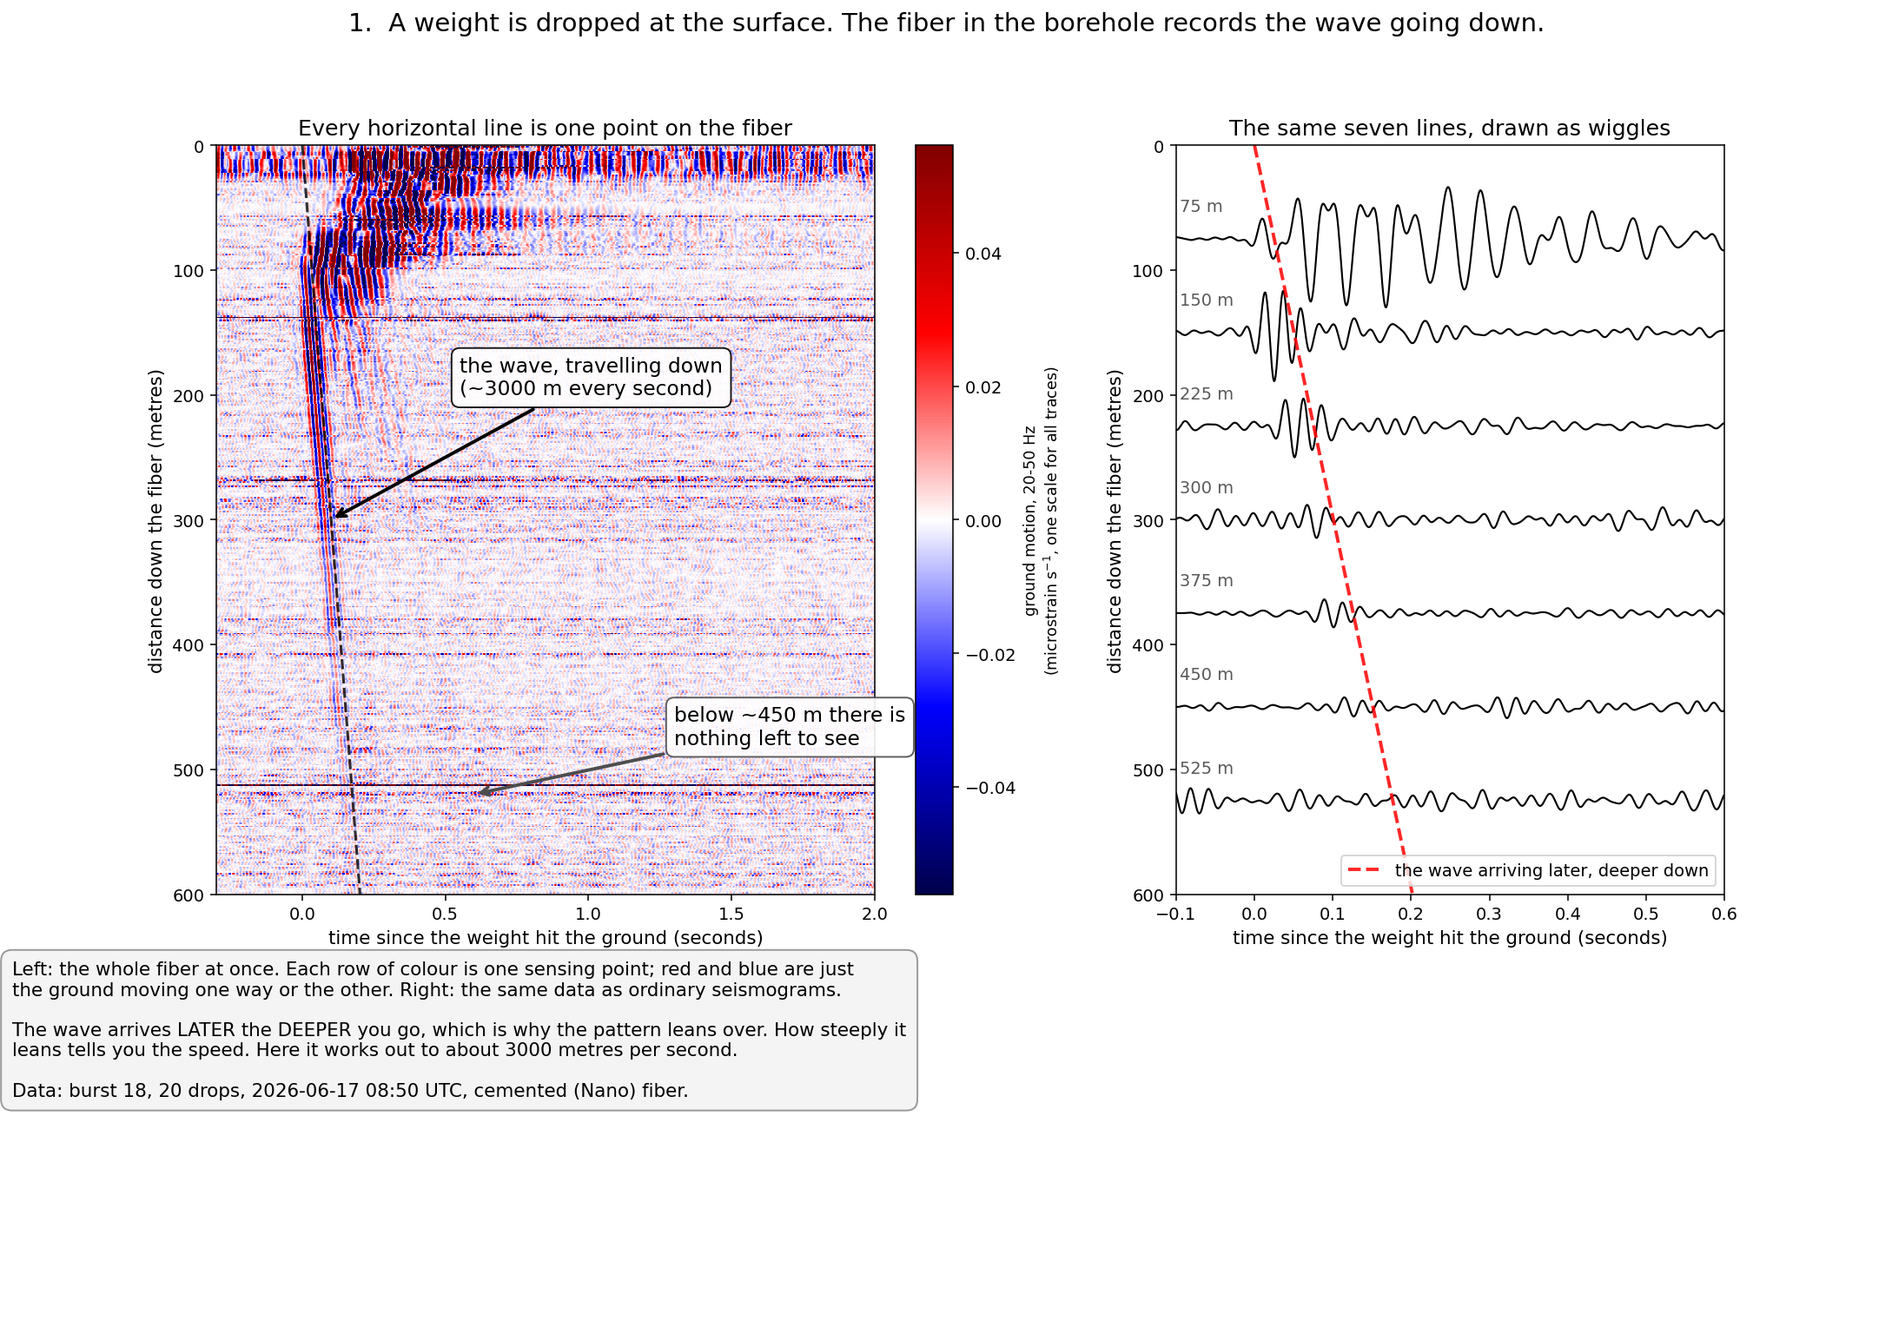
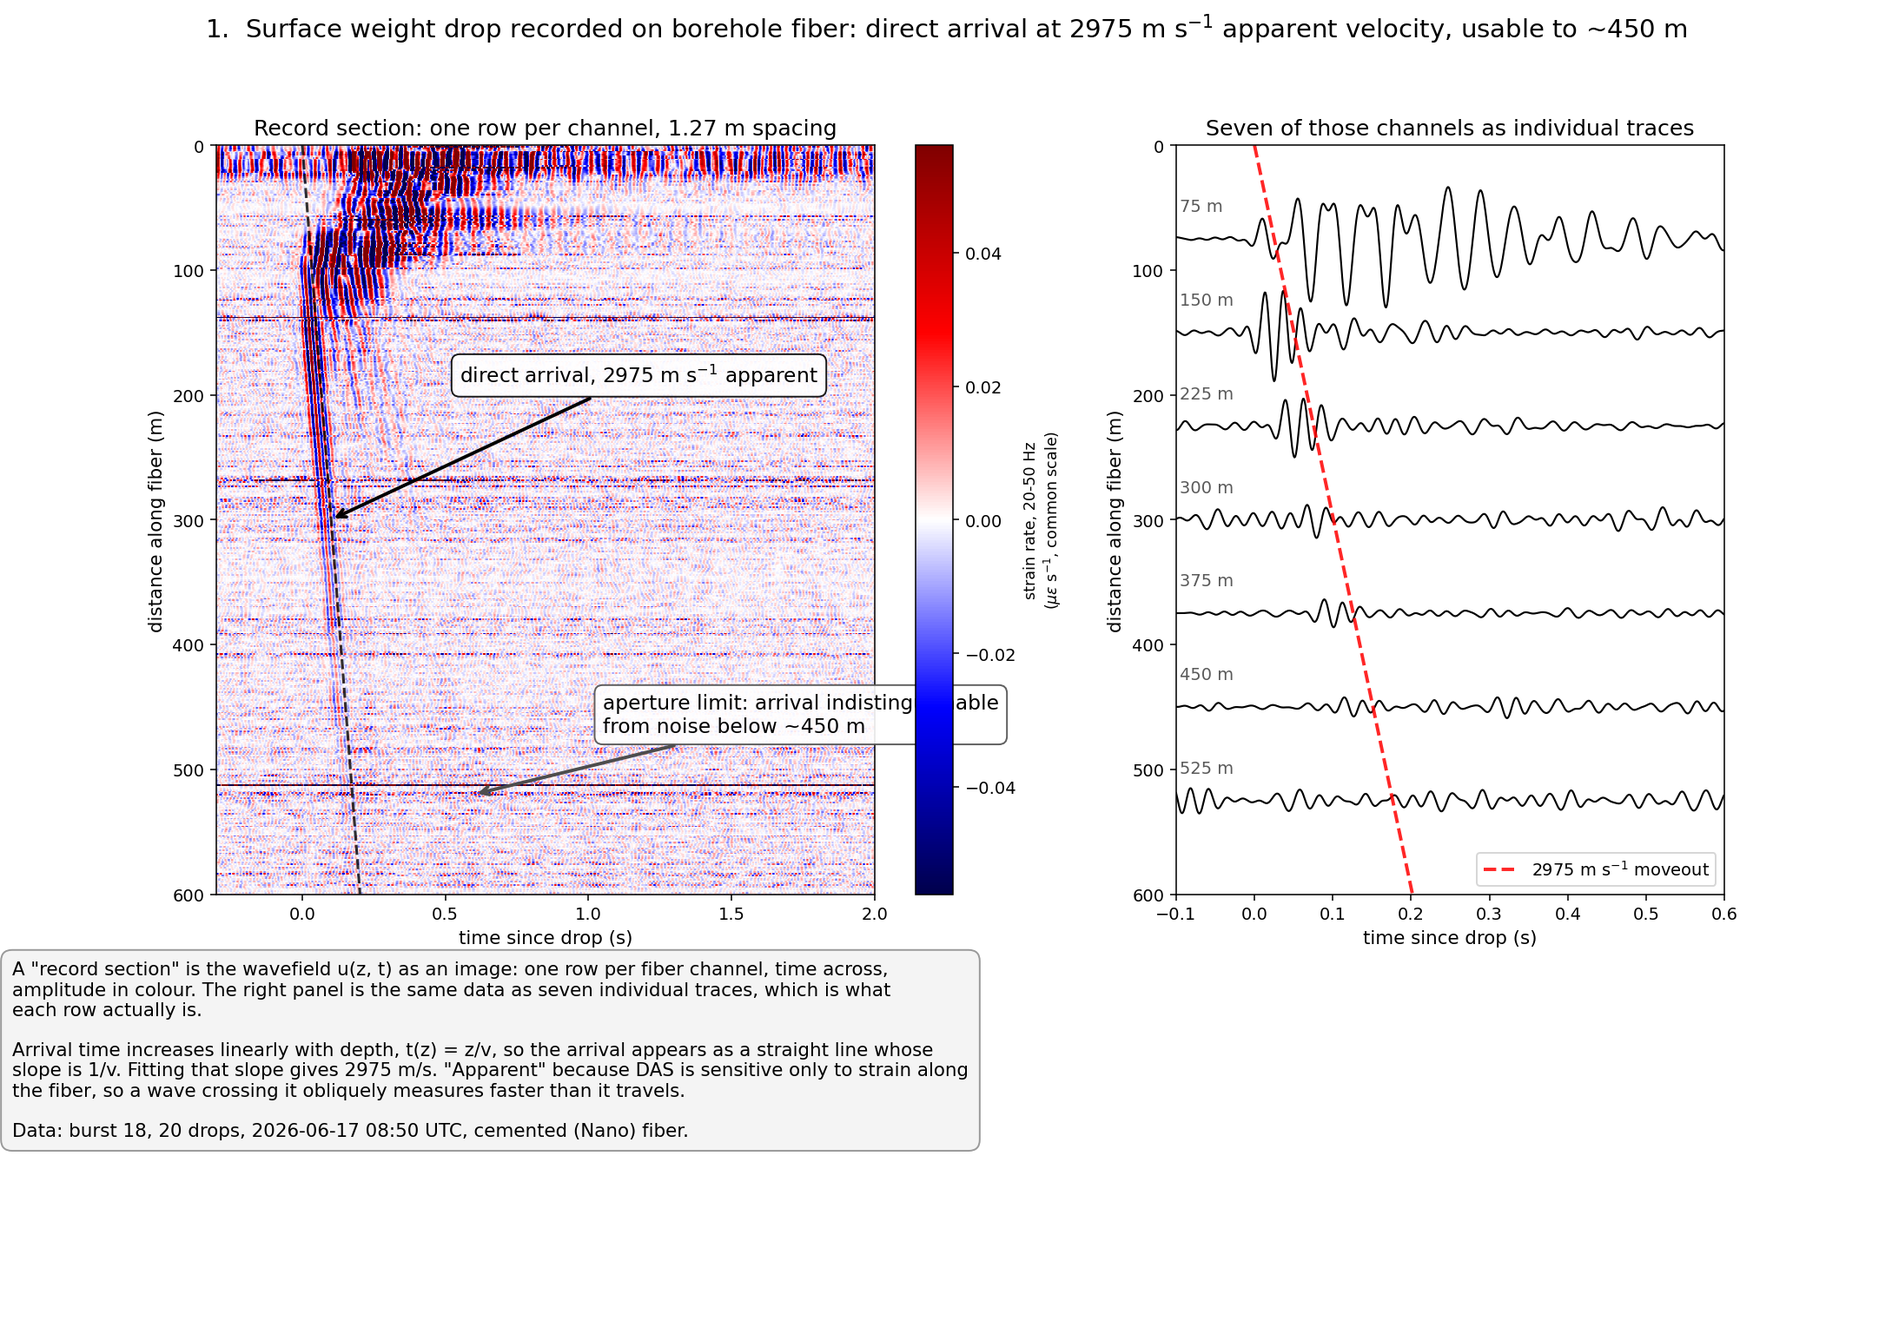
Rewrite the presentation figures at a scientific register
The first pass was pitched far too low - 'THE SIGNAL LIVES HERE', colourbar
ticks reading 'one way / still / other way', captions explaining what a wave
is. The audience is a scientist from another subfield, not a beginner: the
barrier is acquisition vocabulary, not the physics.

Now uses the real terms with a gloss on first use, and every claim carries
its number:

  fig 1  direct arrival at 2975 m/s apparent, with t(z) = z/v stated and
         'apparent' explained as fiber-axial sensitivity
  fig 2  band decomposition; the 1-5 Hz energy identified as zero-moveout
         and pre-t0, hence ambient rather than source-generated
  fig 3  median pairwise CC and peak-amplitude CV computed per depth --
         CC 0.95 / CV 5% at 150 m, 0.73 / 14% at 350 m, 0.18 / 25% at 550 m,
         replacing the previous hand-written verdicts
  fig 4  common-mode removal quantified at 0.89% of section RMS

Axes back to 'time since drop (s)' and 'distance along fiber (m)' with
strain-rate units, instead of the spelled-out versions.

diff --git a/notebooks/awd_clean/plain_look_simple.py b/notebooks/awd_clean/plain_look_simple.py
@@ -1,20 +1,23 @@
 """The same plain looks as `plain_look.py`, redrawn to be readable on first sight.
 
-`plain_look.py` produces diagnostic figures: six panels at a time, dense, written
-for someone who already knows what a record section is. This produces the same
-information as four large figures that explain themselves on the page --
-annotated, one idea each, with the takeaway written in the title rather than left
-to be inferred.
+`plain_look.py` produces diagnostic figures: six panels at a time, dense, with no
+annotation. This produces the same information as four presentation figures --
+one result each, annotated, with the measured quantity in the title.
+
+Register: written for a scientist who is not an active-source seismologist.
+Acquisition terms are used, not avoided, but glossed on first use, and every
+claim carries the number behind it. The point is to remove the jargon barrier,
+not the content.
 
 Nothing is recomputed differently. Same data, same burst, same bands. Only the
 drawing changes. The detailed versions stay where they are.
 
 Design rules used here, since they are the whole point:
-  * one question per figure, answered in the title;
-  * arrows and text on the image pointing at the thing to look at;
-  * every axis and colour bar carries units, or says "normalised" explicitly;
-  * a plain-English caption box on the figure itself, so it survives being
-    pasted into a slide with no surrounding text.
+  * one result per figure, quantified in the title;
+  * annotation on the image identifying the arrival and the aperture limit;
+  * every axis and colour bar in physical units;
+  * a self-contained caption, so the figure survives being pasted into a poster
+    with no surrounding text.
 
 Outputs
 -------
@@ -70,11 +73,11 @@ def section_image(ax, sec, fs, dx, band_label, zmax=None, cmap="seismic"):
     ax.invert_yaxis()
     if zmax:
         ax.set_ylim(zmax, 0)
-    ax.set_xlabel("time since the weight hit the ground (seconds)", fontsize=11)
-    ax.set_ylabel("distance down the fiber (metres)", fontsize=11)
+    ax.set_xlabel("time since drop (s)", fontsize=11)
+    ax.set_ylabel("distance along fiber (m)", fontsize=11)
     cb = plt.colorbar(im, ax=ax)
-    cb.set_label(f"ground motion, {band_label}\n"
-                 r"(microstrain s$^{-1}$, one scale for all traces)", fontsize=9)
+    cb.set_label(f"strain rate, {band_label}\n"
+                 r"($\mu\varepsilon$ s$^{-1}$, common scale)", fontsize=9)
     return im
 
 
@@ -89,16 +92,16 @@ def simple01(sec, fs, tag):
     section_image(ax[0], filt, fs, DX_NANO, "20-50 Hz", zmax=600)
     zz = np.linspace(0, 600, 50)
     ax[0].plot(zz / V_DIRECT, zz, "k--", lw=1.6, alpha=0.8)
-    ax[0].annotate("the wave, travelling down\n(~3000 m every second)",
-                   xy=(0.10, 300), xytext=(0.55, 200), fontsize=12,
+    ax[0].annotate(f"direct arrival, {V_DIRECT:.0f} m s$^{{-1}}$ apparent",
+                   xy=(0.10, 300), xytext=(0.55, 190), fontsize=12,
                    arrowprops=dict(arrowstyle="->", lw=2, color="k"),
                    bbox=dict(boxstyle="round,pad=0.4", fc="white", ec="k", alpha=0.9))
-    ax[0].annotate("below ~450 m there is\nnothing left to see",
-                   xy=(0.6, 520), xytext=(1.3, 480), fontsize=12,
+    ax[0].annotate("aperture limit: arrival indistinguishable\nfrom noise below ~450 m",
+                   xy=(0.6, 520), xytext=(1.05, 470), fontsize=12,
                    arrowprops=dict(arrowstyle="->", lw=2, color="0.3"),
                    bbox=dict(boxstyle="round,pad=0.4", fc="white", ec="0.3", alpha=0.9))
     ax[0].set_xlim(-0.3, 2.0)
-    ax[0].set_title("Every horizontal line is one point on the fiber", fontsize=13)
+    ax[0].set_title("Record section: one row per channel, 1.27 m spacing", fontsize=13)
 
     # the same thing as ordinary wiggly lines, which is what it really is
     depths = (75, 150, 225, 300, 375, 450, 525)
@@ -110,24 +113,28 @@ def simple01(sec, fs, tag):
         ax[1].plot(t[win], scale * tr + zq, "k", lw=1.1)
         ax[1].text(-0.095, zq - 22, f"{zq} m", fontsize=10, color="0.35")
     ax[1].plot(zz / V_DIRECT, zz, "r--", lw=2.0, alpha=0.85,
-               label="the wave arriving later, deeper down")
+               label=f"{V_DIRECT:.0f} m s$^{{-1}}$ moveout")
     ax[1].invert_yaxis()
     ax[1].set_xlim(-0.1, 0.6)
     ax[1].set_ylim(600, 0)
-    ax[1].set_xlabel("time since the weight hit the ground (seconds)", fontsize=11)
-    ax[1].set_ylabel("distance down the fiber (metres)", fontsize=11)
+    ax[1].set_xlabel("time since drop (s)", fontsize=11)
+    ax[1].set_ylabel("distance along fiber (m)", fontsize=11)
     ax[1].legend(fontsize=10, loc="lower right")
-    ax[1].set_title("The same seven lines, drawn as wiggles", fontsize=13)
+    ax[1].set_title("Seven of those channels as individual traces", fontsize=13)
 
-    fig.suptitle("1.  A weight is dropped at the surface. The fiber in the "
-                 "borehole records the wave going down.", fontsize=15)
+    fig.suptitle("1.  Surface weight drop recorded on borehole fiber: direct "
+                 f"arrival at {V_DIRECT:.0f} m s$^{{-1}}$ apparent velocity, "
+                 "usable to ~450 m", fontsize=15)
     caption(fig,
-            "Left: the whole fiber at once. Each row of colour is one sensing point; "
-            "red and blue are just\nthe ground moving one way or the other. Right: the "
-            "same data as ordinary seismograms.\n\n"
-            "The wave arrives LATER the DEEPER you go, which is why the pattern leans "
-            "over. How steeply it\nleans tells you the speed. Here it works out to "
-            "about 3000 metres per second.\n\n"
+            "A \"record section\" is the wavefield u(z, t) as an image: one row per "
+            "fiber channel, time across,\namplitude in colour. The right panel is the "
+            "same data as seven individual traces, which is what\neach row actually "
+            "is.\n\n"
+            "Arrival time increases linearly with depth, t(z) = z/v, so the arrival "
+            "appears as a straight line whose\nslope is 1/v. Fitting that slope gives "
+            f"{V_DIRECT:.0f} m/s. \"Apparent\" because DAS is sensitive only to "
+            "strain along\nthe fiber, so a wave crossing it obliquely measures faster "
+            "than it travels.\n\n"
             f"{tag}")
     fig.savefig(OUT_DIR / "simple01_what_we_record.png", dpi=140,
                 bbox_inches="tight")
@@ -136,10 +143,10 @@ def simple01(sec, fs, tag):
 
 def simple02(sec, fs, tag):
     """Which frequencies carry the signal -- four panels, each with a verdict."""
-    picks = [(None, "no filter at all", "just noise"),
-             ((1.0, 5.0), "very low, 1-5 Hz", "background rumble, not our wave"),
-             ((20.0, 50.0), "middle, 20-50 Hz", "THE SIGNAL LIVES HERE"),
-             ((100.0, 250.0), "high, 100-250 Hz", "nothing")]
+    picks = [(None, "broadband, unfiltered", "noise-dominated"),
+             ((1.0, 5.0), "1-5 Hz", "coherent, but zero moveout: not a body wave"),
+             ((20.0, 50.0), "20-50 Hz", "signal band: clear moveout to ~450 m"),
+             ((100.0, 250.0), "100-250 Hz", "below the noise floor")]
     fig, axes = plt.subplots(1, 4, figsize=(19, 10.5), sharey=True)
     for a, (band, label, verdict) in zip(axes, picks):
         filt = bandpass(sec, fs, band) if band else sec
@@ -152,30 +159,33 @@ def simple02(sec, fs, tag):
         a.set_xlim(-0.2, 1.5)
         a.set_ylim(600, 0)
         a.set_xlabel("time (s)", fontsize=11)
-        good = verdict.startswith("THE")
+        good = verdict.startswith("signal band")
         a.set_title(f"{label}\n{verdict}", fontsize=12,
                     color=("darkgreen" if good else "0.35"),
                     fontweight=("bold" if good else "normal"))
         for sp in a.spines.values():
             sp.set_edgecolor("darkgreen" if good else "0.8")
             sp.set_linewidth(3 if good else 1)
-    axes[0].set_ylabel("distance down the fiber (metres)", fontsize=11)
+    axes[0].set_ylabel("distance along fiber (m)", fontsize=11)
     sm = plt.cm.ScalarMappable(cmap="seismic", norm=plt.Normalize(-1, 1))
     cb = fig.colorbar(sm, ax=axes, fraction=0.02, pad=0.01)
     cb.set_ticks([-1, 0, 1])
-    cb.set_ticklabels(["one way", "still", "other way"])
-    cb.set_label("ground motion (each panel on its own scale)", fontsize=10)
+    cb.set_ticklabels(["$-$", "0", "$+$"])
+    cb.set_label(r"strain rate, each panel scaled to its own 99.5th percentile",
+                 fontsize=10)
 
-    fig.suptitle("2.  The signal only exists in a narrow band of frequencies. "
-                 "This is how we know which one to use.", fontsize=15)
+    fig.suptitle("2.  Band decomposition: coherent moveout is confined to "
+                 "20-50 Hz", fontsize=15)
     caption(fig,
-            "The same single weight drop, four times. Each panel throws away all "
-            "frequencies except one range,\nthe way you would with the bass and treble "
-            "knobs on a stereo.\n\n"
-            "Unfiltered you see nothing. Filter to 20-50 Hz and a clean leaning "
-            "pattern appears. That is why every\nother analysis in this project works "
-            "at 20-50 Hz -- not by convention, but because that is the only\nplace the "
-            "signal is.\n\n"
+            "One drop, bandpass-filtered into four ranges (4th-order Butterworth, "
+            "zero-phase). Each panel is\nscaled independently, so a band carrying no "
+            "signal reads as empty rather than being stretched to\nlook like signal.\n\n"
+            "Broadband is noise-dominated. The 1-5 Hz energy is coherent across the "
+            "array but arrives with zero\nmoveout and starts before t=0, so it is "
+            "ambient rather than source-generated. Above 100 Hz there is\nnothing above "
+            "the noise floor. The 20-50 Hz band is the only one showing a "
+            "moveout-consistent\narrival, which is why the rest of the analysis uses "
+            "it -- an empirical choice, not an inherited one.\n\n"
             f"{tag}")
     fig.savefig(OUT_DIR / "simple02_where_the_signal_is.png", dpi=140,
                 bbox_inches="tight")
@@ -185,9 +195,7 @@ def simple02(sec, fs, tag):
 def simple03(nano_all, fs, t_file, drops, tag):
     """How repeatable the source is, and how deep it stays usable."""
     depths = [150.0, 350.0, 550.0]
-    verdicts = ["excellent: they lie on top of each other",
-                "weaker, and starting to disagree",
-                "weakest, and mostly disagreeing"]
+    verdicts = None   # computed below from the data
     # Filter a LONG window and display a short one. Filtering the display window
     # directly puts the biggest excursions on the figure at its two edges, and
     # those are filter ringing, not data.
@@ -210,14 +218,30 @@ def simple03(nano_all, fs, t_file, drops, tag):
 
     # one shared vertical scale, so the amplitude really does fall with depth
     vmax = max(np.max(np.abs(tr)) for kept in per_depth for _, tr in kept)
+
+    # quantify rather than assert: median pairwise normalised cross-correlation
+    # between drops, and the coefficient of variation of their peak amplitudes
+    verdicts, stats = [], []
+    for kept in per_depth:
+        M = np.asarray([tr for _, tr in kept])
+        M = M - M.mean(axis=1, keepdims=True)
+        nrm = np.linalg.norm(M, axis=1)
+        C = (M @ M.T) / np.outer(nrm, nrm)
+        iu = np.triu_indices(len(M), k=1)
+        cc = float(np.median(C[iu]))
+        pk = np.max(np.abs(M), axis=1)
+        cv = float(pk.std() / pk.mean())
+        stats.append((cc, cv))
+        verdicts.append(f"CC = {cc:.2f}    CV = {cv:.0%}")
+
     for a, zq, verdict, kept in zip(axes, depths, verdicts, per_depth):
         for t, tr in kept:
             a.plot(t, tr, lw=0.9, alpha=0.6)
-        good = verdict.startswith("excellent")
-        a.set_title(f"{zq:.0f} m down\n{verdict}", fontsize=13, pad=14,
+        good = stats[depths.index(zq)][0] > 0.9
+        a.set_title(f"{zq:.0f} m along fiber\n{verdict}", fontsize=12, pad=12,
                     color=("darkgreen" if good else "0.35"),
                     fontweight=("bold" if good else "normal"))
-        a.set_xlabel("time since the weight hit the ground (seconds)", fontsize=11)
+        a.set_xlabel("time since drop (s)", fontsize=11)
         a.grid(alpha=0.3)
         a.set_xlim(show_lo, show_hi)
         a.set_ylim(-1.1 * vmax, 1.1 * vmax)
@@ -225,18 +249,20 @@ def simple03(nano_all, fs, t_file, drops, tag):
             for sp in a.spines.values():
                 sp.set_edgecolor("darkgreen")
                 sp.set_linewidth(2.5)
-    axes[0].set_ylabel("ground motion (microstrain per second)", fontsize=11)
-    fig.suptitle(f"3.  Drop the weight {len(drops)} times and overlay the results. "
-                 "They agree near the surface and not deep down.", fontsize=15)
+    axes[0].set_ylabel(r"strain rate ($\mu\varepsilon$ s$^{-1}$)", fontsize=11)
+    fig.suptitle(f"3.  Source repeatability against depth: {len(drops)} drops from one "
+                 f"burst, CC {stats[0][0]:.2f} at 150 m falling to "
+                 f"{stats[-1][0]:.2f} at 550 m", fontsize=15)
     caption(fig,
-            f"Each panel shows all {len(drops)} weight drops from one burst, drawn on "
-            "top of one another, at one depth.\nIf the source and the ground were "
-            "perfectly repeatable, the lines would coincide exactly.\n\n"
-            "All three panels share the same vertical scale, so the shrinking of the "
-            "wiggles with depth is real\nand not a trick of the axis. At 150 m the "
-            "twenty lines nearly coincide. By 550 m they are much\nweaker and largely "
-            "disagree -- there is still some shared shape, but not enough to measure "
-            "with.\n\n"
+            f"All {len(drops)} drops of one burst overlaid, at three fiber positions, "
+            "20-50 Hz. Perfect source and\npath repeatability would put the traces "
+            "exactly on top of each other, so the spread is the combined\n"
+            "source-plus-medium variability.\n\n"
+            "CC is the median pairwise normalised cross-correlation between drops; "
+            "CV is the coefficient of\nvariation of their peak amplitudes. All three panels share one vertical scale, so the\namplitude "
+            "decay with depth is real rather than an artefact of autoscaling. Traces "
+            "are filtered over a\nlonger window than is displayed, so the plotted "
+            "range is free of filter edge transients.\n\n"
             f"{tag}")
     fig.savefig(OUT_DIR / "simple03_how_repeatable.png", dpi=140,
                 bbox_inches="tight")
@@ -251,32 +277,33 @@ def simple04(sec, fs, tag):
     removed_pct = 100 * np.sqrt(np.mean(med ** 2)) / np.sqrt(np.mean(filt ** 2))
 
     fig, ax = plt.subplots(1, 3, figsize=(17, 10.5), sharey=True)
-    for a, data, title in [(ax[0], filt, "BEFORE cleanup"),
-                           (ax[1], after, "AFTER cleanup"),
-                           (ax[2], filt - after, "what was thrown away")]:
+    for a, data, title in [(ax[0], filt, "before common-mode removal"),
+                           (ax[1], after, "after common-mode removal"),
+                           (ax[2], filt - after, "the removed component")]:
         t = np.arange(data.shape[1]) / fs - PRE_S
         z = np.arange(data.shape[0]) * DX_NANO
         v = np.percentile(np.abs(filt), 99.0)
         im = a.pcolormesh(t, z, data, cmap="seismic", vmin=-v, vmax=v, shading="auto")
         a.set_ylim(600, 0)
         a.set_xlim(-0.3, 2.0)
-        a.set_xlabel("time since the weight hit the ground (seconds)", fontsize=11)
+        a.set_xlabel("time since drop (s)", fontsize=11)
         a.set_title(title, fontsize=13)
-    ax[0].set_ylabel("distance down the fiber (metres)", fontsize=11)
+    ax[0].set_ylabel("distance along fiber (m)", fontsize=11)
     cb = fig.colorbar(im, ax=ax, fraction=0.02, pad=0.01)
-    cb.set_label("ground motion (microstrain per second)", fontsize=10)
+    cb.set_label(r"strain rate ($\mu\varepsilon$ s$^{-1}$), common scale", fontsize=10)
 
-    fig.suptitle("4.  A standard cleanup step is applied to this data automatically. "
-                 f"It removes {removed_pct:.1f}% of the signal.", fontsize=15)
+    fig.suptitle("4.  Common-mode removal accounts for "
+                 f"{removed_pct:.1f}% of section RMS at 20-50 Hz", fontsize=15)
     caption(fig,
-            "The software that reads this data automatically subtracts whatever every "
-            "sensing point sees at the\nsame instant, on the assumption that anything "
-            "simultaneous everywhere is instrument noise rather\nthan ground motion.\n\n"
-            "The worry was that it might also be deleting real signal. The right-hand "
-            f"panel is everything it removed:\nit is {removed_pct:.1f}% of the total, "
-            "and the first two panels are indistinguishable. So at these frequencies\n"
-            "this step is doing essentially nothing, and none of the results depend on "
-            "it.\n\n"
+            "The DAS reader subtracts the across-channel median at every time sample by "
+            "default, on the\nassumption that anything simultaneous on all channels is "
+            "interrogator noise. It is applied silently,\nso it is worth knowing what "
+            "it costs.\n\n"
+            "The concern is that it also removes any genuine arrival with zero moveout. "
+            f"Here the removed\ncomponent is {removed_pct:.2f}% of the section RMS and "
+            "the first two panels are visually identical, so no\nresult in the "
+            "20-50 Hz band depends on this choice either way. It matters more at low "
+            "frequency,\nwhere the common mode carries most of the coherent energy.\n\n"
             f"{tag}")
     fig.savefig(OUT_DIR / "simple04_does_cleanup_matter.png", dpi=140,
                 bbox_inches="tight")
